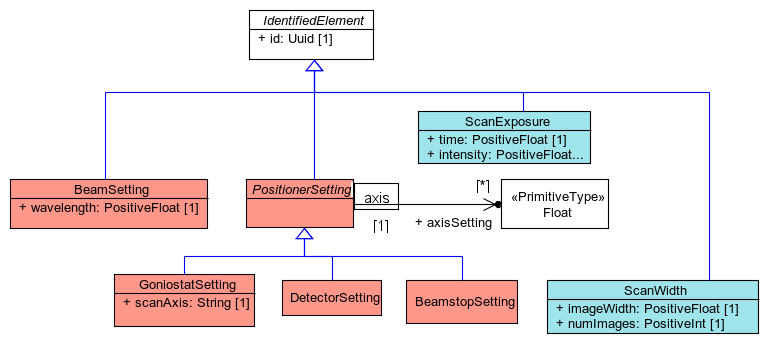
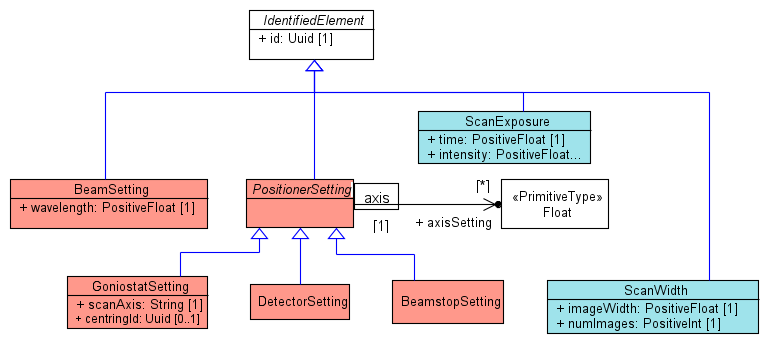
Support for handling sample centring
- Track an id that has been assigned to the centring settings

diff --git a/com.globalphasing.sdcp.abstract_beamline/src/co/gphl/beamline/v2_unstable/instrumentation/GoniostatSetting.java b/com.globalphasing.sdcp.abstract_beamline/src/co/gphl/beamline/v2_unstable/instrumentation/GoniostatSetting.java
@@ -12,10 +12,14 @@
  */
 package co.gphl.beamline.v2_unstable.instrumentation;
 
+import java.util.UUID;
+
 public interface GoniostatSetting extends PositionerSetting {
 
     SettingStatus getStatus();
     void setStatus(SettingStatus status);
     String getScanAxis();
+    
+    UUID getCentringId();
     
 }
